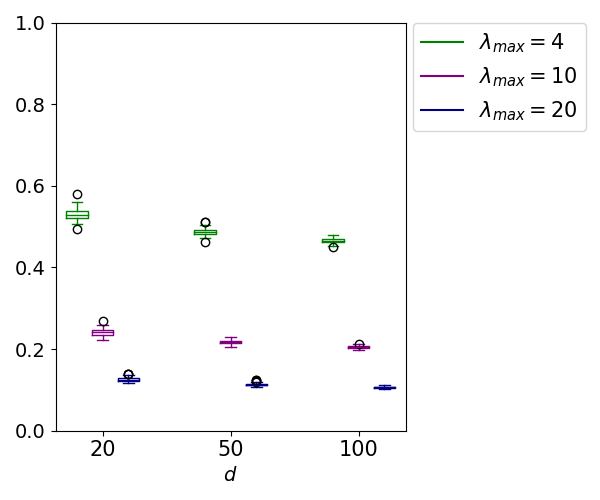
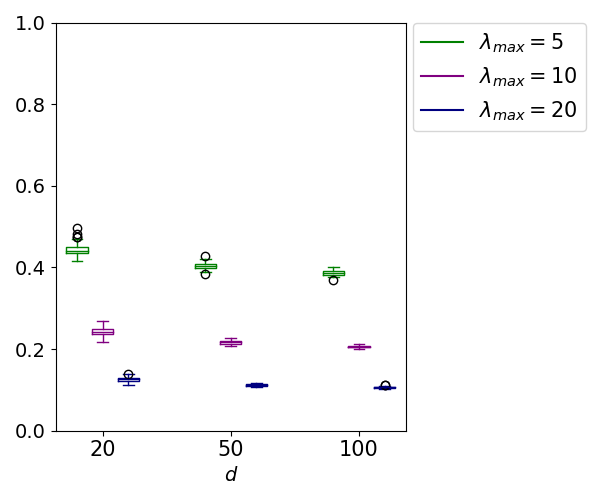
Update approximation of beta results

diff --git a/Numerical_Experiments/Approximation of beta/derive_approx.py b/Numerical_Experiments/Approximation of beta/derive_approx.py
@@ -1,0 +1,217 @@
+import sys
+import numpy as np
+import matplotlib.pyplot as plt
+import tqdm
+
+from metod_alg import objective_functions as mt_obj
+
+
+def approx_beta(norm_grads, d):
+    """
+    Approximates the value of the partner step size beta.
+
+    Parameters
+    ----------
+    norm_grads : 1-d array
+                 Array containing the norm of the gradient for each
+                 starting point generated.
+    d : integer
+        Size of dimension.
+
+    Returns
+    -------
+    approx_beta : float
+                  Approximation of beta.
+    """
+    return ((1 / np.mean(norm_grads)) *
+            (((d - 1) * (d - 1)) / (2.25 * d * np.sqrt(d))))
+
+
+def const_approx_beta(d, c):
+    """
+    Compute constant.
+
+    Parameters
+    ----------
+    c : float
+        Value used within computatio
+    d : integer
+        Size of dimension.
+
+    Returns
+    -------
+    value : float
+            Value to multiply the reciprocal of the average norm of the
+            gradient.
+    """
+    return ((d - 1) * (d - 1)) / (c * d * np.sqrt(d))
+
+
+def compute_norm_grad(d, lambda_2, P):
+    """
+    Compute constant.
+
+    Parameters
+    ----------
+    d : integer
+        Size of dimension.
+    lambda_2 : integer
+               Largest eigenvalue.
+    P : integer
+        Number of local minima.
+
+    Returns
+    -------
+    value : float
+            Average norm of the gradient.
+    """
+    g = mt_obj.several_quad_gradient
+    lambda_1 = 1
+    num = 100
+    store_norm_grad = np.zeros((num))
+    store_x0, store_A = (mt_obj.function_parameters_several_quad(
+                         P, d, lambda_1, lambda_2))
+    args = P, store_x0, store_A
+    for j in range(num):
+        grad = g(np.random.uniform(0, 1, (d, )), *args)
+        store_norm_grad[j] = np.linalg.norm(grad)
+    return np.mean(store_norm_grad)
+
+
+def approx_beta_num_exp(d, lambda_2, P):
+    """
+    Compute approx of beta.
+
+    Parameters
+    ----------
+    d : integer
+        Size of dimension.
+    lambda_2 : integer
+               Largest eigenvalue.
+    P : integer
+        Number of local minima.
+
+    Returns
+    -------
+    value : float
+            Approx beta.
+    """
+    g = mt_obj.several_quad_gradient
+    lambda_1 = 1
+    num = 30
+    store_norm_grad = np.zeros((num))
+    store_x0, store_A = (mt_obj.function_parameters_several_quad(
+                         P, d, lambda_1, lambda_2))
+    args = P, store_x0, store_A
+    for j in range(num):
+        grad = g(np.random.uniform(0, 1, (d, )), *args)
+        store_norm_grad[j] = np.linalg.norm(grad)
+    return approx_beta(store_norm_grad, d)
+
+
+def diff_d_approx_beta_num_exp(P):
+    """
+    Compute approx of beta.
+
+    Parameters
+    ----------
+    d : integer
+        Size of dimension.
+    lambda_2 : integer
+               Largest eigenvalue.
+    P : integer
+        Number of local minima.
+
+    Returns
+    -------
+    value : float
+            Approx beta.
+    """
+    store_norms = np.zeros((end_d - start_d, 3))
+    index = 0
+    for d in tqdm.tqdm(np.arange(start_d, end_d)):
+        test_num = np.zeros((3, 100))
+        for i in range(100):
+            test_num[0, i] = approx_beta_num_exp(int(d), 5, P)
+            test_num[1, i] = approx_beta_num_exp(int(d), 10, P)
+            test_num[2, i] = approx_beta_num_exp(int(d), 20, P)
+        store_norms[index, 0] = np.mean(test_num[0])
+        store_norms[index, 1] = np.mean(test_num[1])
+        store_norms[index, 2] = np.mean(test_num[2])
+        index += 1
+    return store_norms
+
+
+def create_plot_avg_norm_grads(P, start_d, end_d, labels):
+    """
+    Plot of the average norm of the gradient for different d.
+    """
+    plt.clf()
+    store_norms = np.zeros((end_d-start_d, 3))
+    np.random.seed(start_d)
+    for d in np.arange(start_d, end_d):
+        store_norms[d-start_d, 0] = (1 / compute_norm_grad(int(d), 5, P))
+        store_norms[d-start_d, 1] = (1 / compute_norm_grad(int(d), 10, P))
+        store_norms[d-start_d, 2] = (1 / compute_norm_grad(int(d), 20, P))
+    plt.plot(np.arange(start_d, end_d), store_norms[:, 0], color='green')
+    plt.plot(np.arange(start_d, end_d), store_norms[:, 1], color='purple')
+    plt.plot(np.arange(start_d, end_d), store_norms[:, 2], color='blue')
+    plt.plot([], c='green', label=labels[0])
+    plt.plot([], c='purple', label=labels[1])
+    plt.plot([], c='blue', label=labels[2])
+    plt.legend(bbox_to_anchor=(0.99, 1.025), loc='upper left',
+               prop={'size': 15})
+    plt.xlabel(r"$d$", size=15)
+    plt.xlim(start_d, end_d)
+    plt.xticks(np.linspace(start_d, end_d, 4, endpoint=True))
+    plt.tight_layout()
+    plt.savefig('quad_P=%s_avg_norm_grads.png' % (P))
+
+
+def create_plot_const_approx_beta(start_d, end_d):
+    """
+    Plot of const_approx_beta for different d.
+    """
+    plt.clf()
+    c = 2.25
+    plt.plot(np.arange(start_d, end_d),
+             const_approx_beta(np.arange(start_d, end_d), c),
+             color='blue')
+    plt.xlabel(r"$d$", size=15)
+    plt.xlim(start_d, end_d)
+    plt.xticks(np.linspace(start_d, end_d, 4, endpoint=True))
+    plt.tight_layout()
+    plt.savefig('quad_const_approx_beta.png')
+
+
+def create_plot_approx_beta(P, labels):
+    """
+    Plot of approx_beta for different d.
+    """
+    plt.clf()
+    store_norms = diff_d_approx_beta_num_exp(P)
+    plt.ylim(0, 0.5)
+    plt.plot(np.arange(start_d, end_d), store_norms[:, 0], color='green')
+    plt.plot(np.arange(start_d, end_d), store_norms[:, 1], color='purple')
+    plt.plot(np.arange(start_d, end_d), store_norms[:, 2], color='blue')
+    plt.plot([], c='green', label=labels[0])
+    plt.plot([], c='purple', label=labels[1])
+    plt.plot([], c='blue', label=labels[2])
+    plt.legend(bbox_to_anchor=(0.99, 1.025), loc='upper left',
+               prop={'size': 15})
+    plt.xlabel(r"$d$", size=20)
+    plt.xlim(start_d, end_d)
+    plt.xticks(np.linspace(start_d, end_d, 4, endpoint=True))
+    plt.tight_layout()
+    plt.savefig('quad_approx_beta_diff_d.png')
+
+
+if __name__ == "__main__":
+    P = int(sys.argv[1])
+    start_d = 5
+    end_d = 200
+    labels = [r'$\lambda_{max} = 5$', r'$\lambda_{max} = 10$',
+              r'$\lambda_{max} = 20$']
+    create_plot_avg_norm_grads(P, start_d, end_d, labels)
+    create_plot_const_approx_beta(start_d, end_d)
+    create_plot_approx_beta(P, labels)

diff --git a/Numerical_Experiments/Approximation of beta/approx_beta.py b/Numerical_Experiments/Approximation of beta/approx_beta.py
@@ -228,7 +228,7 @@ if __name__ == "__main__":
     seed = int(sys.argv[2])
     type_func = str(sys.argv[3])
     if type_func == 'known':
-        lambda_list = [4, 10, 20]
+        lambda_list = [5, 10, 20]
         if P == 5:
             d_list = [5, 20, 100]
         elif P == 20:
@@ -242,7 +242,7 @@ if __name__ == "__main__":
                                                            seed)
             index += 1
         ticks = d_list
-        labels = [r'$\lambda_{max} = 4$',
+        labels = [r'$\lambda_{max} = 5$',
                   r'$\lambda_{max} = 10$',
                   r'$\lambda_{max} = 20$']
         create_boxplots(store_all_quantity[0],
